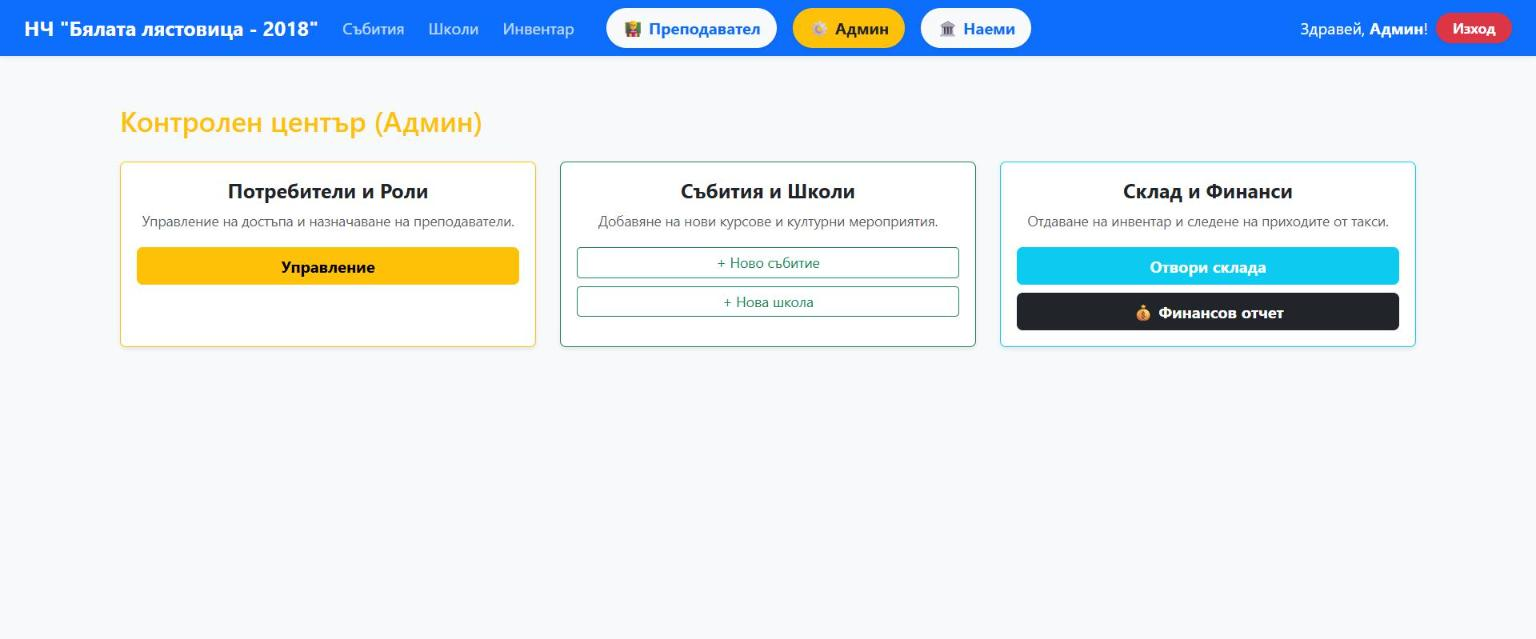
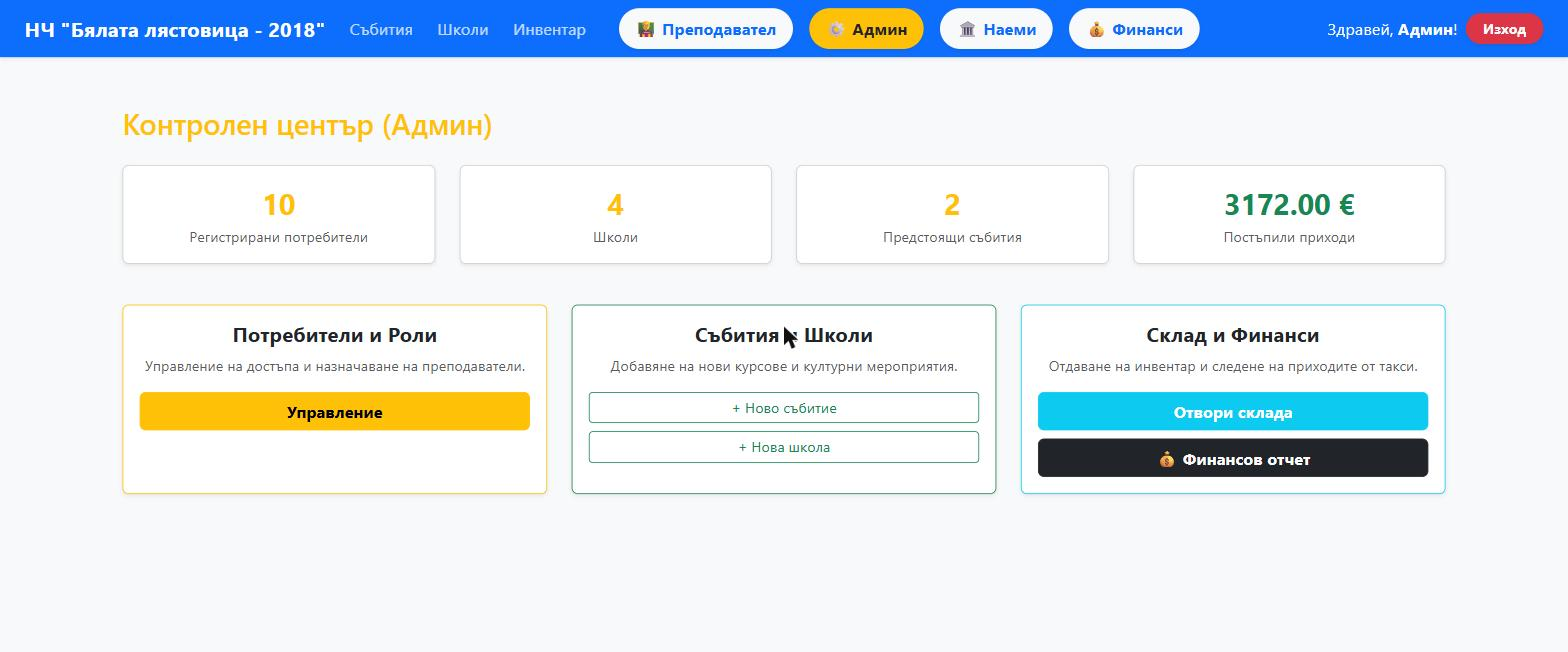
docs: refresh dashboard screenshots to show new stats and homepage preview
Admin/instructor dashboard screenshots were taken before the dashboard
stats cards were added, so they no longer matched the app. Also add a
screenshot of the new guest homepage events/courses preview section.

diff --git a/README.md b/README.md
@@ -157,9 +157,13 @@ JaCoCo HTML coverage reports are generated at `target/site/jacoco/index.html` in
 ![Landing Page](images/home-public.png)
 *(Designed to attract new members and showcase activities)*
 
-### Instructor Dashboard
-![Instructor Dashboard](images/admin-dashboard.png)
-*(Managing attendees, marking attendance, and tracking payments)*
+### Admin Dashboard
+![Admin Dashboard](images/admin-dashboard.png)
+*(At-a-glance stats — users, courses, upcoming events, revenue — plus quick access to every admin area)*
+
+### Public Homepage Preview
+![Homepage Events & Courses Preview](images/home-preview.png)
+*(Guests see a live preview of upcoming events and active courses right on the landing page)*
 
 ### Admin Financial Report
 ![Financial Report](images/finance.png)
